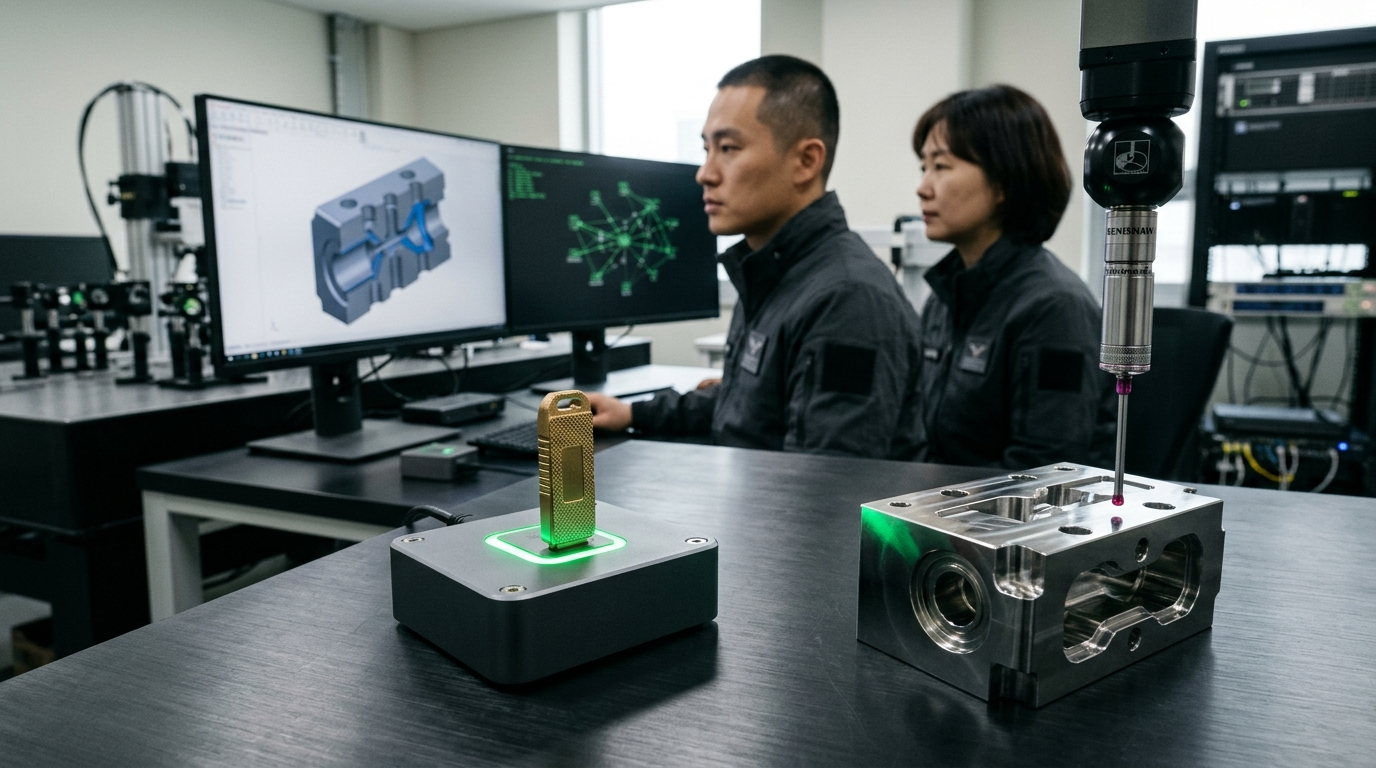
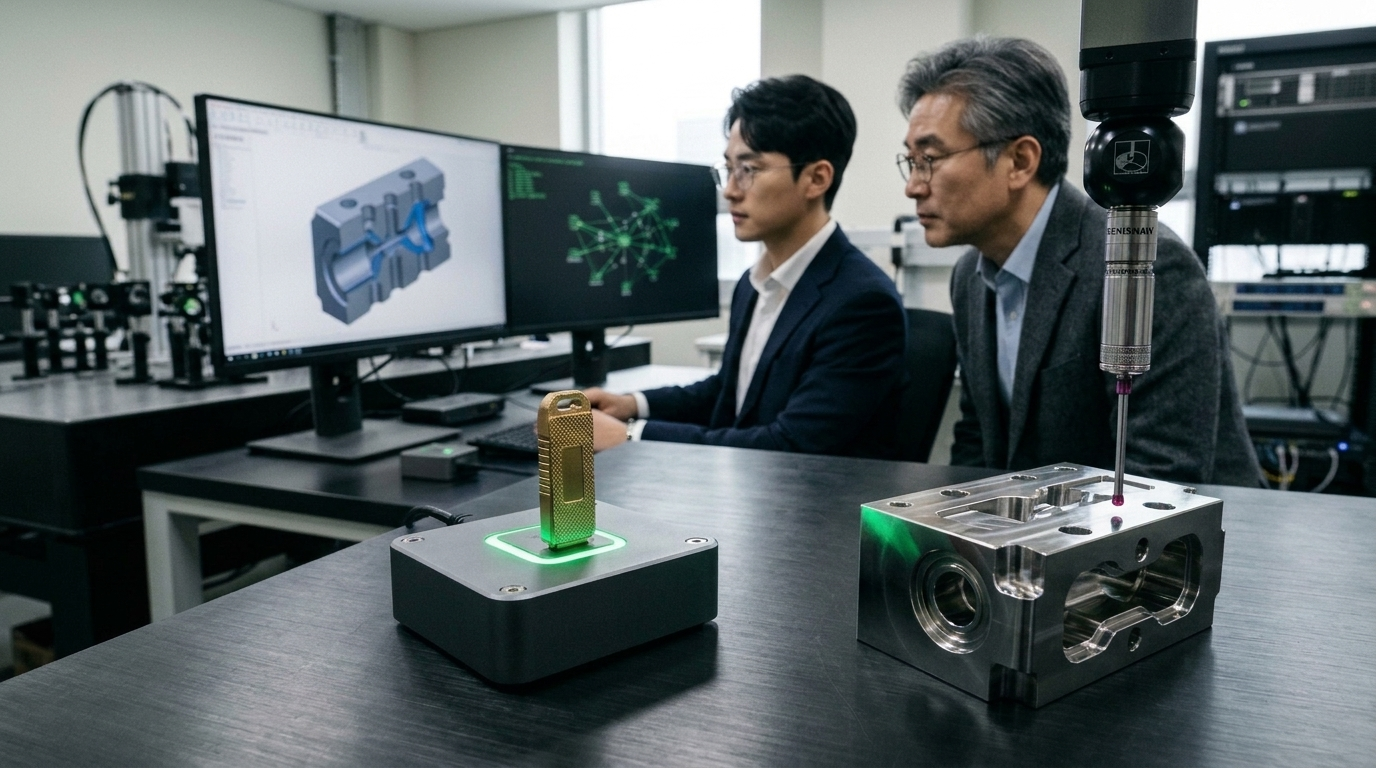
fix(story-artwork): update figures in story-dual-brain-audit.jpg to Korean researcher and professor style

Changed region(s): [[0.4062, 0.0312, 0.9375, 0.6875], [0.5, 0.625, 0.5625, 0.75], [0.4062, 0.6875, 0.4375, 0.7188]]

diff --git a/story.html b/story.html
@@ -1281,8 +1281,8 @@
                     <div class="row g-4 mb-32">
                         <div class="col-lg-6">
                             <div class="story-figure-card">
-                                <div class="story-figure-Stage has-live-vfx" onclick="openStoryLightbox('assets/images/story/story-dual-brain-audit.jpg?v=20261101v36', '2026년 9월의 멈춤과 감사 원칙: 빠른 두뇌(System 1)와 느린 두뇌(System 2), 그리고 지휘·감사·실행 AI 분리', true)">
-                                    <img src="assets/images/story/story-dual-brain-audit.jpg?v=20261101v36" alt="2026년 9월 차세대 엔진 실험 중단과 감사 원칙 확립 — System 1과 System 2 이중 프로세스 검증">
+                                <div class="story-figure-Stage has-live-vfx" onclick="openStoryLightbox('assets/images/story/story-dual-brain-audit.jpg?v=20261101v41', '2026년 9월의 멈춤과 감사 원칙: 빠른 두뇌(System 1)와 느린 두뇌(System 2), 그리고 지휘·감사·실행 AI 분리', true)">
+                                    <img src="assets/images/story/story-dual-brain-audit.jpg?v=20261101v41" alt="2026년 9월 차세대 엔진 실험 중단과 감사 원칙 확립 — System 1과 System 2 이중 프로세스 검증">
                                     <span class="axide-live-pill"><span class="live-dot"></span>LIVE MOTION · SYSTEM 1 × SYSTEM 2</span>
                                     <div class="axide-live-vfx" aria-hidden="true">
                                         <div class="vfx-aura vfx-aura-cyan" style="left: 12%; top: 22%; width: 32%; height: 52%;"></div>
